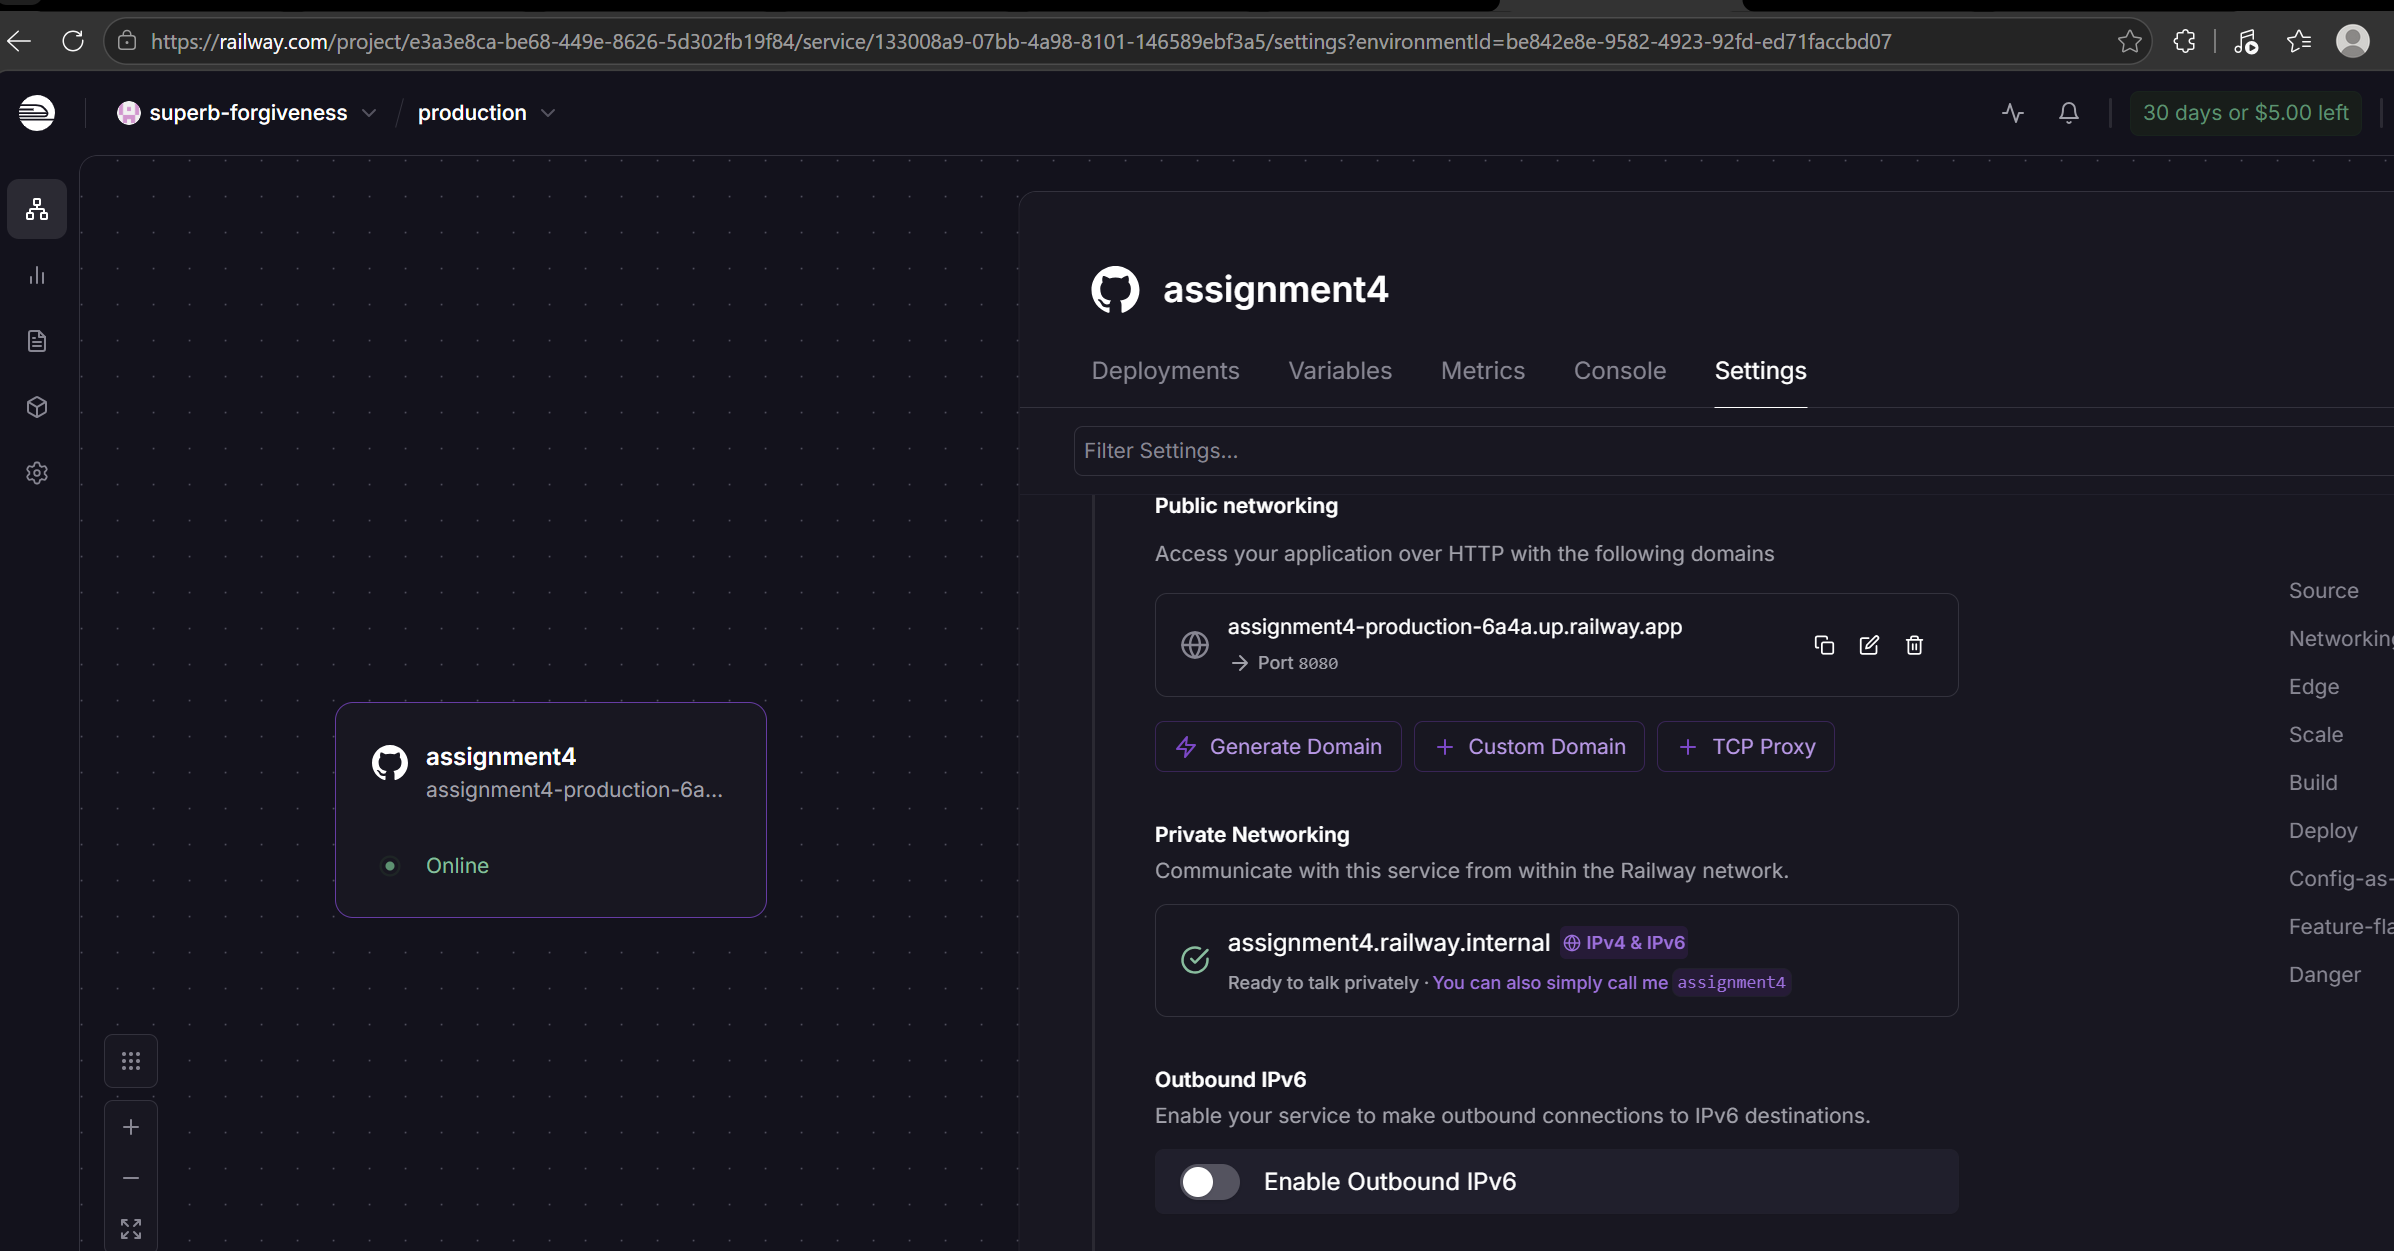
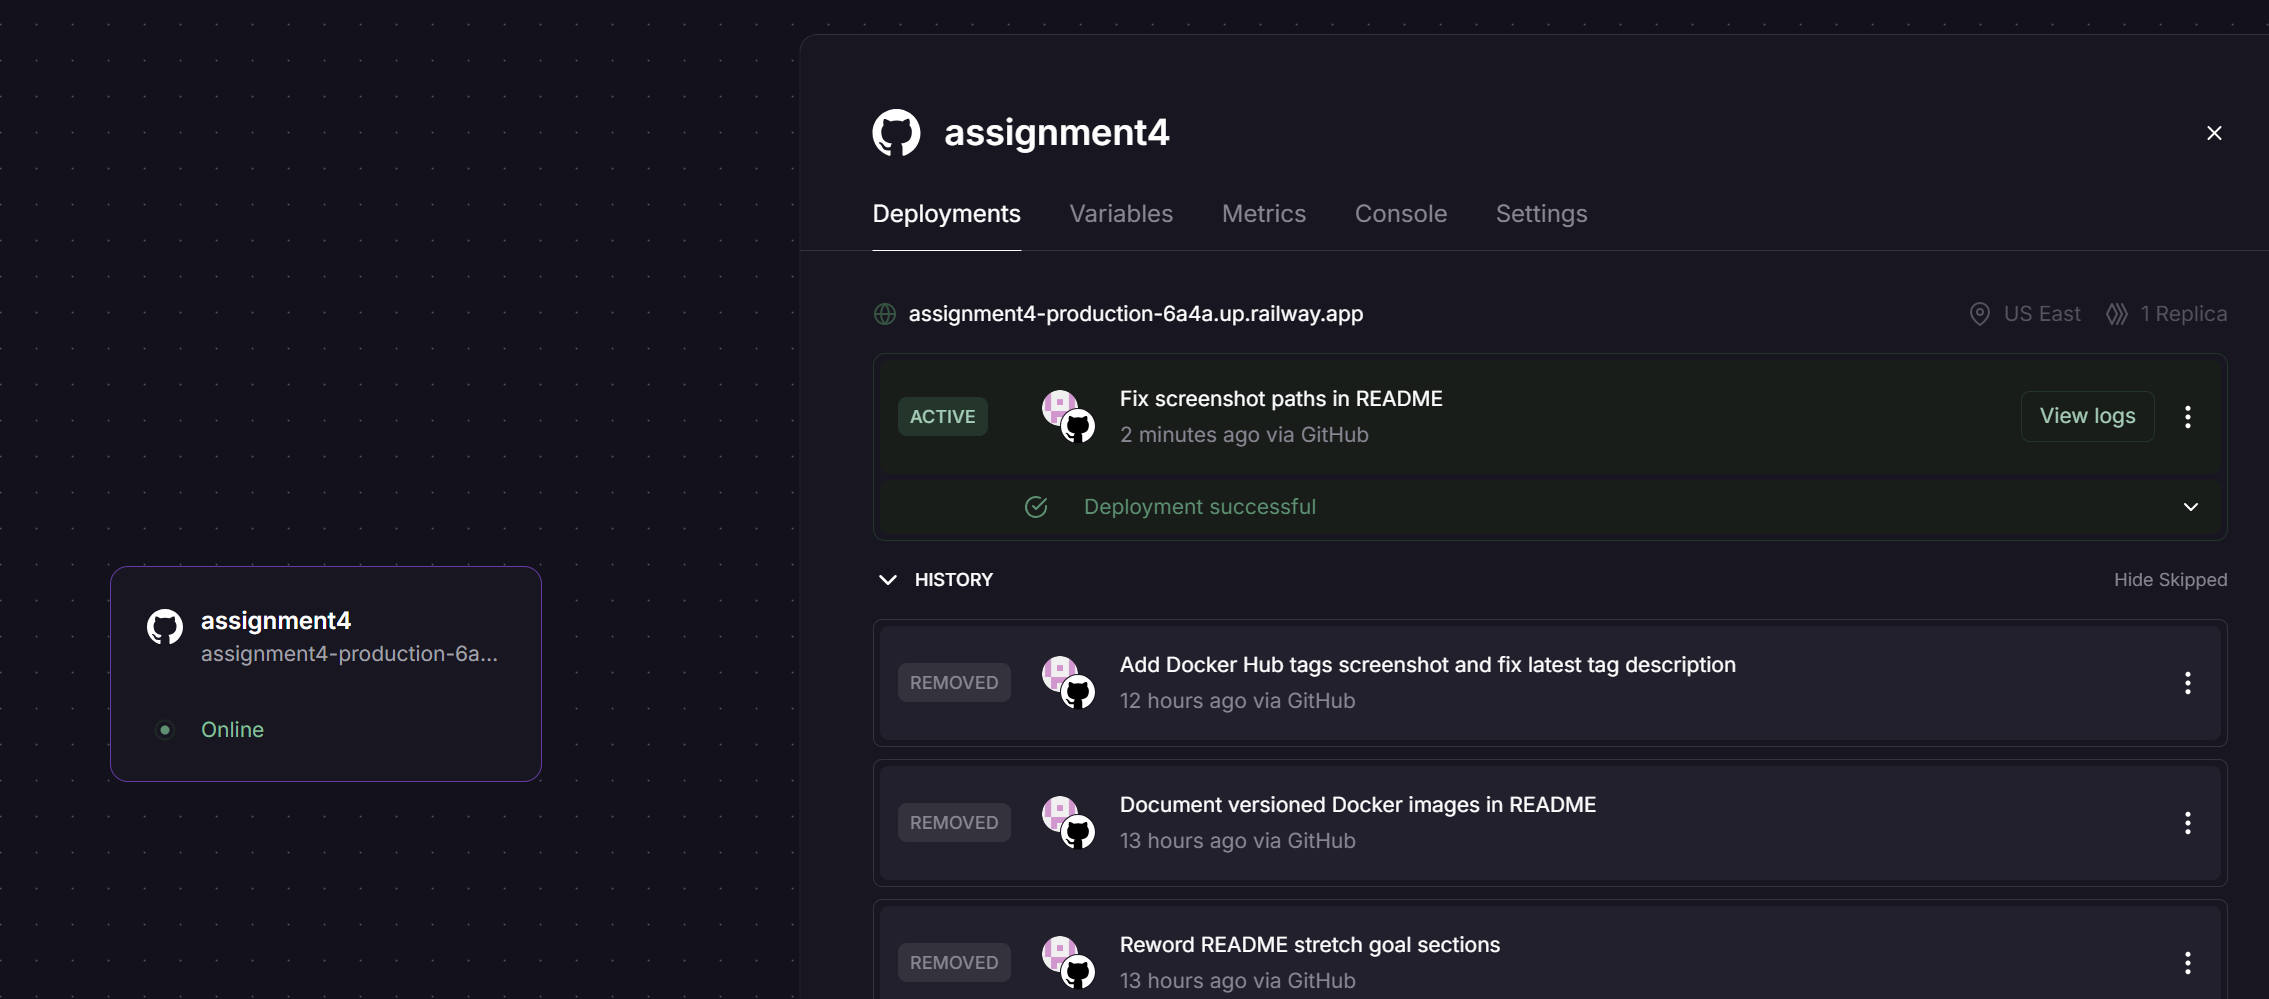
Update dashboard screenshot, remove stray root images, refresh README status

diff --git a/README.md b/README.md
@@ -30,7 +30,7 @@ API endpoint response verifying that the deployed service is active and handling
 
 ### Deployment Status
 - **Tasks Completed:** Multi-stage Docker containerization, local container testing, GitHub integration, and Railway cloud deployment.
-- **Errors / Issues:** None.
+- **Errors / Issues:** The deployment itself went through without errors. Along the way I fixed a few problems in the API (a missing task returned a 500 instead of a 404, and there was no input validation), and the first dependency scan failed on a vulnerable Tomcat version. All of these are fixed. The scan details are in the security section below.
 
 ### Stretch Goals (Optional)
 - **Selection:** Option 1 (CI pipeline), Option 4 (versioned Docker images) and Option 5 (security checks)
